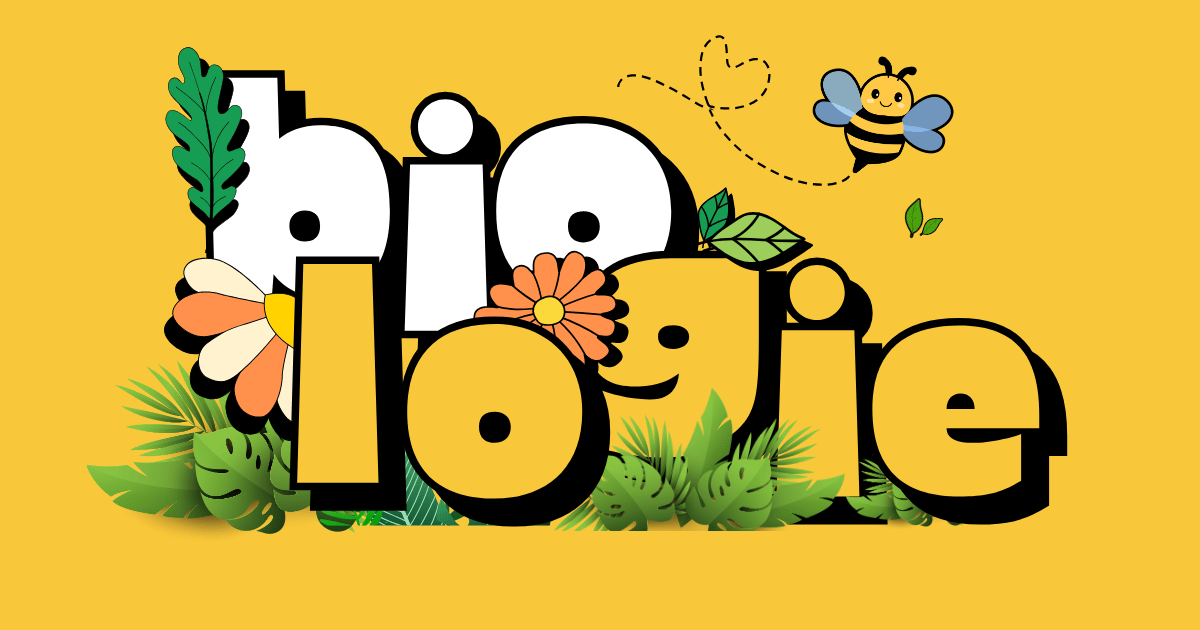
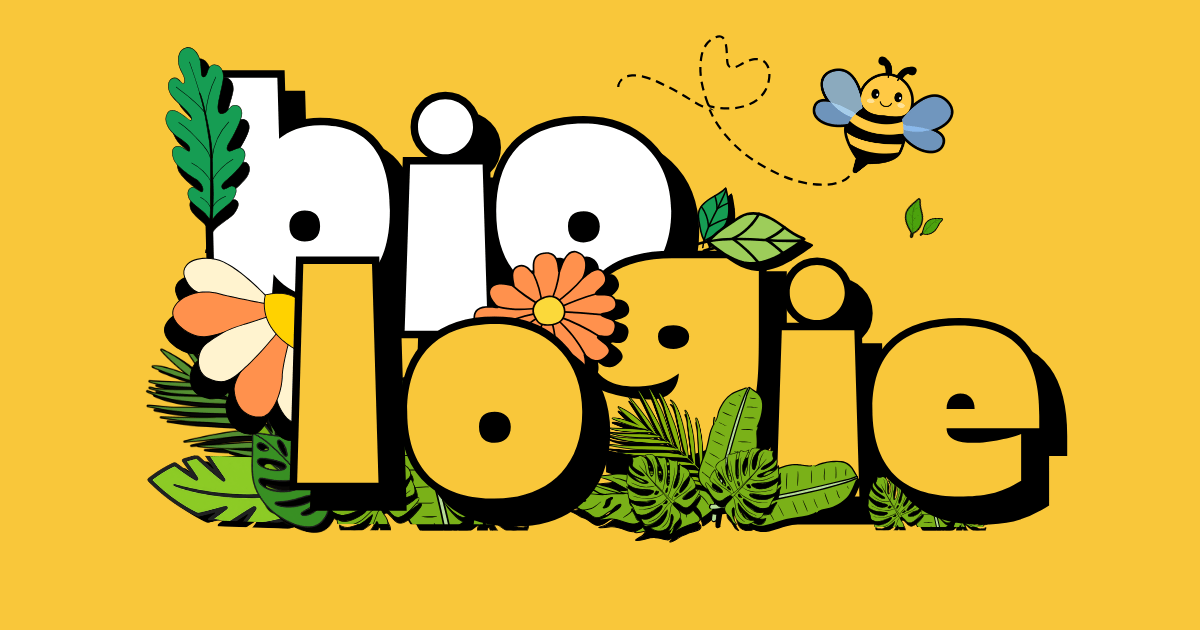
Install the designer's 20 November artwork, with English as every design's default and an exam's own name drawn once

Changed region(s): [[0.0617, 0.5429, 0.8325, 0.8746]]

diff --git a/apps/www/src/lib/tryout/artwork.ts b/apps/www/src/lib/tryout/artwork.ts
@@ -51,23 +51,32 @@ const TryoutArtworkSchema = Schema.Struct({
  * The owner's try-out designs, each recorded once with the one entity or page
  * it was drawn for, keyed by the stable keys of that entity, never its
  * localized slugs. `drawn` names the file of each locale in the owner's
- * source folder, `opengraph-nakafa/<drawn>.webp`. A country's design is that
- * country page's social image alone. An entity that has no design of its own
- * borrows none: its card draws the tile of its own icon.
+ * source folder, `opengraph-nakafa/<drawn>.webp`, numbered as the designer's
+ * export of 20 November 2026 numbers them. A country's design is that country
+ * page's social image alone. An exam's design is lettered with the exam's own
+ * name, which no language translates. A test drawn in German alone, such as
+ * Darmstadt's "mathematik", shows the English design of its subject to every
+ * other reader. An entity that has no design of its own borrows none: its card
+ * draws the tile of its own icon.
  */
 const TRYOUT_ARTWORK = {
   "country/germany": {
-    drawn: { en: "tryout/102" },
+    drawn: { en: "tryout/103" },
     identity: "tryout/germany/index",
     role: "page",
   },
   "country/indonesia": {
-    drawn: { en: "tryout/101" },
+    drawn: { en: "tryout/102" },
     identity: "tryout/indonesia/index",
     role: "page",
   },
+  "exam/germany/entrance-examination": {
+    drawn: { en: "tryout/152" },
+    identity: "tryout/germany/entrance-examination",
+    role: "entity",
+  },
   "exam/indonesia/snbt": {
-    drawn: { en: "tryout/88" },
+    drawn: { en: "tryout/89" },
     identity: "tryout/indonesia/snbt",
     role: "entity",
   },
@@ -77,47 +86,47 @@ const TRYOUT_ARTWORK = {
     role: "entity",
   },
   "section/indonesia/snbt/general-reasoning": {
-    drawn: { de: "tryout/39", en: "tryout/38", id: "tryout/37" },
+    drawn: { de: "tryout/40", en: "tryout/39", id: "tryout/38" },
     identity: "tryout/indonesia/snbt/general-reasoning",
     role: "page",
   },
   "section/indonesia/snbt/mathematical-reasoning": {
-    drawn: { de: "tryout/48", en: "tryout/47", id: "tryout/46" },
+    drawn: { de: "tryout/49", en: "tryout/48", id: "tryout/47" },
     identity: "tryout/indonesia/snbt/mathematical-reasoning",
     role: "page",
   },
   "section/indonesia/snbt/quantitative-knowledge": {
-    drawn: { de: "tryout/51", en: "tryout/50", id: "tryout/49" },
+    drawn: { de: "tryout/52", en: "tryout/51", id: "tryout/50" },
     identity: "tryout/indonesia/snbt/quantitative-knowledge",
     role: "page",
   },
   "track/germany/entrance-examination/tu-darmstadt-mathematics": {
-    drawn: { en: "mata pelajaran/142" },
+    drawn: { de: "tryout/154", en: "mata pelajaran/12" },
     identity: "tryout/germany/entrance-examination/tu-darmstadt-mathematics",
     role: "entity",
   },
   "track/indonesia/snbt/2027": {
-    drawn: { en: "tryout/91" },
+    drawn: { en: "tryout/92" },
     identity: "tryout/indonesia/2027",
     role: "entity",
   },
   "track/indonesia/tka/advanced-mathematics": {
-    drawn: { de: "tryout/114", en: "tryout/113", id: "tryout/112" },
+    drawn: { de: "tryout/115", en: "tryout/114", id: "tryout/113" },
     identity: "tryout/indonesia/tka/advanced-mathematics",
     role: "entity",
   },
   "track/indonesia/tka/compulsory-mathematics": {
-    drawn: { de: "tryout/111", en: "tryout/110", id: "tryout/109" },
+    drawn: { de: "tryout/112", en: "tryout/111", id: "tryout/110" },
     identity: "tryout/indonesia/tka/compulsory-mathematics",
     role: "entity",
   },
   "track/indonesia/tka/english-language": {
-    drawn: { de: "tryout/105", en: "tryout/104", id: "tryout/103" },
+    drawn: { de: "tryout/106", en: "tryout/105", id: "tryout/104" },
     identity: "tryout/indonesia/tka/english-language",
     role: "entity",
   },
   "track/indonesia/tka/indonesian-language": {
-    drawn: { de: "tryout/108", en: "tryout/107", id: "tryout/106" },
+    drawn: { de: "tryout/109", en: "tryout/108", id: "tryout/107" },
     identity: "tryout/indonesia/tka/indonesian-language",
     role: "entity",
   },

diff --git a/apps/www/src/lib/og/artwork.ts b/apps/www/src/lib/og/artwork.ts
@@ -9,6 +9,13 @@ import { getOgUrl } from "@/lib/seo/social";
 const ALL_ARTWORK_LOCALES = ACTIVE_APP_LOCALE_CODES;
 const ENGLISH_ARTWORK = [ENGLISH_APP_LOCALE_CODE] as const;
 /**
+ * A design lettered with an exam's own name, such as SNBT, TKA,
+ * Aufnahmeprüfung or Feststellungsprüfung. No language translates an exam's
+ * name, so the design is drawn once, in the exam's own language, and every
+ * locale shows that one file. Never ask for, or install, a translated version.
+ */
+const EXAM_NAME_ARTWORK = ENGLISH_ARTWORK;
+/**
  * A design whose Indonesian lettering is not Malaysian Malay, such as
  * `Matematika` for `Matematik`, until the Malay lettering is drawn. A design
  * whose lettering reads the same in both, such as `tanya Nina`, has its Malay
@@ -18,15 +25,16 @@ const WITHOUT_MALAY_ARTWORK = ["en", "id", "de"] as const;
 
 /**
  * Reviewed public artwork grouped by stable, language-neutral identity, each with
- * the locales it has a file for. A design whose words read the same in every
- * language, such as the School's or the Quran's, has one English file, which
- * every locale falls back to. A design whose words belong to one language, such
- * as the landing's "belajar sampai paham.", has a file for that language alone,
- * and every other locale keeps its generated image.
+ * the locales it has a file for. English is the default: every design has an
+ * English file, and a locale without its own file shows the English one, so a
+ * design drawn in Indonesian or German alone, such as the German "mathematik",
+ * shows English everywhere else. A design whose words read the same in every
+ * language, such as the School's or the Quran's, and a design of an exam's own
+ * name (`EXAM_NAME_ARTWORK`) have that one file alone.
  */
 export const artworkSources = {
   "app/ask-nina": ALL_ARTWORK_LOCALES,
-  "app/landing": ["id"],
+  "app/landing": ["en", "id", "de"],
   "app/pricing": ALL_ARTWORK_LOCALES,
   "app/school": ENGLISH_ARTWORK,
   "curriculum/cambridge-international": ENGLISH_ARTWORK,
@@ -51,16 +59,16 @@ export const artworkSources = {
   "subject/physics": WITHOUT_MALAY_ARTWORK,
   "subject/science": ALL_ARTWORK_LOCALES,
   "subject/secondary-additional-mathematics": ["en", "de"],
-  "tryout/germany/entrance-examination/tu-darmstadt-mathematics":
-    ENGLISH_ARTWORK,
+  "tryout/germany/entrance-examination": EXAM_NAME_ARTWORK,
+  "tryout/germany/entrance-examination/tu-darmstadt-mathematics": ["en", "de"],
   "tryout/germany/index": ENGLISH_ARTWORK,
   "tryout/indonesia/2027": ENGLISH_ARTWORK,
   "tryout/indonesia/index": ENGLISH_ARTWORK,
-  "tryout/indonesia/snbt": ENGLISH_ARTWORK,
+  "tryout/indonesia/snbt": EXAM_NAME_ARTWORK,
   "tryout/indonesia/snbt/general-reasoning": WITHOUT_MALAY_ARTWORK,
   "tryout/indonesia/snbt/mathematical-reasoning": WITHOUT_MALAY_ARTWORK,
   "tryout/indonesia/snbt/quantitative-knowledge": ALL_ARTWORK_LOCALES,
-  "tryout/indonesia/tka": ENGLISH_ARTWORK,
+  "tryout/indonesia/tka": EXAM_NAME_ARTWORK,
   "tryout/indonesia/tka/advanced-mathematics": WITHOUT_MALAY_ARTWORK,
   "tryout/indonesia/tka/compulsory-mathematics": WITHOUT_MALAY_ARTWORK,
   "tryout/indonesia/tka/english-language": WITHOUT_MALAY_ARTWORK,
@@ -74,10 +82,7 @@ const artworkInventory: Readonly<
   Record<string, readonly [Locale, ...Locale[]]>
 > = artworkSources;
 
-/**
- * The file of one identity in the locale, or in English when the locale has none, and none for a design of another
- * language alone.
- */
+/** The file of one identity in the locale, or its English default when the locale has none. */
 function pickArtworkPath(
   identity: string,
   locales: readonly Locale[],
@@ -96,7 +101,7 @@ function pickArtworkPath(
   );
 }
 
-/** Resolves exact locale artwork, then the reviewed English default, and none for a design of another language. */
+/** Resolves exact locale artwork, then the reviewed English default every design has. */
 export function resolveStaticArtwork(
   identity: ArtworkIdentity | undefined,
   locale: Locale

diff --git a/apps/www/src/lib/og/artwork.test.ts b/apps/www/src/lib/og/artwork.test.ts
@@ -39,6 +39,35 @@ describe("public artwork", () => {
     );
   });
 
+  it("gives every design an English file, the default of every locale without its own", () => {
+    const withoutEnglish = Arr.filter(
+      Rec.toEntries(artworkSources),
+      ([, locales]) => !Arr.contains(locales, "en")
+    );
+
+    expect(withoutEnglish).toEqual([]);
+    // A design drawn in German alone shows English elsewhere.
+    expect(
+      resolveStaticArtwork(
+        "tryout/germany/entrance-examination/tu-darmstadt-mathematics",
+        "id"
+      )
+    ).toBe(
+      "/open-graph/tryout/germany/entrance-examination/en-tu-darmstadt-mathematics.png"
+    );
+  });
+
+  it("shows an exam's own name in its one design in every locale", () => {
+    for (const locale of ["en", "id", "de", "ms"] as const) {
+      expect(
+        resolveStaticArtwork("tryout/germany/entrance-examination", locale)
+      ).toBe("/open-graph/tryout/germany/en-entrance-examination.png");
+      expect(resolveStaticArtwork("tryout/indonesia/snbt", locale)).toBe(
+        "/open-graph/tryout/indonesia/en-snbt.png"
+      );
+    }
+  });
+
   it("answers the home image when an identity has no artwork", () => {
     expect(resolveStaticArtwork(undefined, "de")).toBeUndefined();
     expect(
@@ -70,13 +99,16 @@ describe("public artwork", () => {
     expect(
       getAppSocialArtwork({ key: "home", locale: "en", publicPath: "" })
     ).toBe("/en/og/image.png");
-    // The landing's artwork speaks Indonesian, so another language keeps its generated image.
     expect(
       getAppSocialArtwork({ key: "landing", locale: "id", publicPath: "" })
     ).toBe("/open-graph/app/id-landing.png");
     expect(
       getAppSocialArtwork({ key: "landing", locale: "de", publicPath: "" })
-    ).toBe("/de/og/image.png");
+    ).toBe("/open-graph/app/de-landing.png");
+    // Malay has no landing lettering of its own, so it shows the English default.
+    expect(
+      getAppSocialArtwork({ key: "landing", locale: "ms", publicPath: "" })
+    ).toBe("/open-graph/app/en-landing.png");
   });
 
   it("draws a card's artwork from its WebP, and leaves a generated image alone", () => {
@@ -115,6 +147,7 @@ describe("public artwork", () => {
       const filesystemPaths = Arr.filter(entries, (entry) =>
         entry.endsWith(".png")
       );
+      const cardPaths = Arr.filter(entries, (entry) => entry.endsWith(".webp"));
       const publicFilesystemPaths = Arr.map(
         filesystemPaths,
         (entry) => `/open-graph/${entry}`
@@ -124,6 +157,13 @@ describe("public artwork", () => {
       expect(Arr.sort(publicFilesystemPaths, Order.String)).toEqual(
         Arr.sort(manifestPaths, Order.String)
       );
+      // A card's WebP stands beside its PNG, never alone.
+      expect(
+        Arr.sort(
+          Arr.map(cardPaths, (entry) => `/open-graph/${entry}`),
+          Order.String
+        )
+      ).toEqual(Arr.sort(Arr.map(manifestPaths, toCardArtwork), Order.String));
       expect(publicFilesystemPaths).not.toContain(
         "/open-graph/tryout/indonesia/en-2026.png"
       );

diff --git a/apps/www/src/lib/tryout/artwork.test.ts b/apps/www/src/lib/tryout/artwork.test.ts
@@ -11,7 +11,7 @@ import {
 
 describe("try-out artwork", () => {
   it.effect.each(["en", "id", "de", "ms"] as const)(
-    "keeps the Darmstadt design off the general entrance exam in %s",
+    "draws the Aufnahmeprüfung's own name, never a Kolleg's mark, in its one design in %s",
     (appLocale) =>
       Effect.gen(function* () {
         expect(
@@ -21,7 +21,12 @@ describe("try-out artwork", () => {
             examKey: "entrance-examination",
             publicPath: "try-out/germany/entrance-examination",
           })
-        ).toEqual({ socialImageSrc: `/${appLocale}/og/image.png` });
+        ).toEqual({
+          cardImageSrc:
+            "/open-graph/tryout/germany/en-entrance-examination.png",
+          socialImageSrc:
+            "/open-graph/tryout/germany/en-entrance-examination.png",
+        });
       })
   );
 
@@ -189,9 +194,14 @@ describe("try-out artwork", () => {
     }
   );
 
-  it.each(["en", "id", "de"] as const)(
-    "draws Germany's Darmstadt Mathematics with its own design, one file for every locale, in %s",
-    (locale) => {
+  it.each([
+    ["de", "de"],
+    ["en", "en"],
+    ["id", "en"],
+    ["ms", "en"],
+  ] as const)(
+    "draws Germany's Darmstadt Mathematics in German for %s readers and in English otherwise (%s)",
+    (locale, file) => {
       expect(
         getTryoutTrackCatalogArtwork(locale, {
           countryKey: "germany",
@@ -199,7 +209,7 @@ describe("try-out artwork", () => {
           trackKey: "tu-darmstadt-mathematics",
         })
       ).toBe(
-        "/open-graph/tryout/germany/entrance-examination/en-tu-darmstadt-mathematics.png"
+        `/open-graph/tryout/germany/entrance-examination/${file}-tu-darmstadt-mathematics.png`
       );
     }
   );

diff --git a/apps/www/e2e/tryout/groups.browser.ts b/apps/www/e2e/tryout/groups.browser.ts
@@ -15,7 +15,7 @@ const EXAM_CARD = /^View options /u;
 const SUBJECT_CARD = /^View sets /u;
 /** The country's design, which only its own page's metadata names. */
 const GERMANY_DESIGN = /\/open-graph\/tryout\/germany\/en-index\.png$/u;
-/** The Darmstadt Mathematics test's own design, which its page shares. */
+/** The Darmstadt Mathematics test's English design, which its page shares in English. */
 const DARMSTADT_MATHEMATICS =
   /\/open-graph\/tryout\/germany\/entrance-examination\/en-tu-darmstadt-mathematics\.png$/u;
 /**
@@ -124,9 +124,8 @@ test("reaches every exam's set table in at most two clicks from its country", as
 });
 
 /**
- * SNBT and TKA have their own exam artwork. The Aufnahmeprüfung uses a tile
- * until it has its own artwork. Germany and the Darmstadt Mathematics test
- * each keep their own share image.
+ * SNBT, TKA and the Aufnahmeprüfung each have their own exam artwork. Germany
+ * and the Darmstadt Mathematics test each keep their own share image.
  */
 test("draws each exam card with its own design", async ({ page }) => {
   await visit(page, INDONESIA);
@@ -134,8 +133,8 @@ test("draws each exam card with its own design", async ({ page }) => {
   await expect(page.locator('main [data-slot="tile"]')).toHaveCount(0);
 
   await visit(page, GERMANY);
-  await expect(page.locator("main img")).toHaveCount(0);
-  await expect(page.locator('main [data-slot="tile"]')).toHaveCount(1);
+  await expect(page.locator("main img")).toHaveCount(1);
+  await expect(page.locator('main [data-slot="tile"]')).toHaveCount(0);
   await expect(page.locator('meta[property="og:image"]')).toHaveAttribute(
     "content",
     GERMANY_DESIGN
